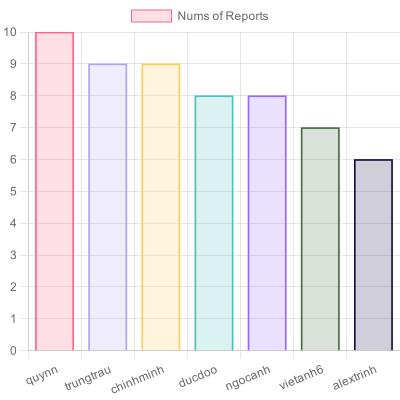
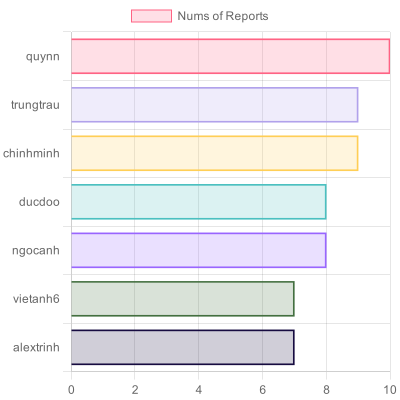
sadasd

diff --git a/app.js b/app.js
@@ -165,6 +165,7 @@ async function sendImage() {
     const chartJSNodeCanvas = new ChartJSNodeCanvas({ width, height, backgroundColour });
     // Define the chart options
     const options = {
+        indexAxis: 'y',
         scales: {
             xAxes: [
                 {

diff --git a/z_test.py b/z_test.py
@@ -15,8 +15,15 @@ if sys.argv[1] == 'doReport':
     data["user_name"] = "anh.nguyenviet6"
     myobj = data
 elif sys.argv[1] == 'doShowReport':
-    x = '{ "text":"Raven Show Reports"}'
-    myobj = x
+    data = {}
+    data["text"] = "Raven Show Reports"
+    data["user_name"] = "anh.nguyenviet6"
+    myobj = data
+elif sys.argv[1] == 'doShowScores':
+    data = {}
+    data["text"] = "Raven Show Reports"
+    data["user_name"] = "anh.nguyenviet6"
+    myobj = data
 
 
 
